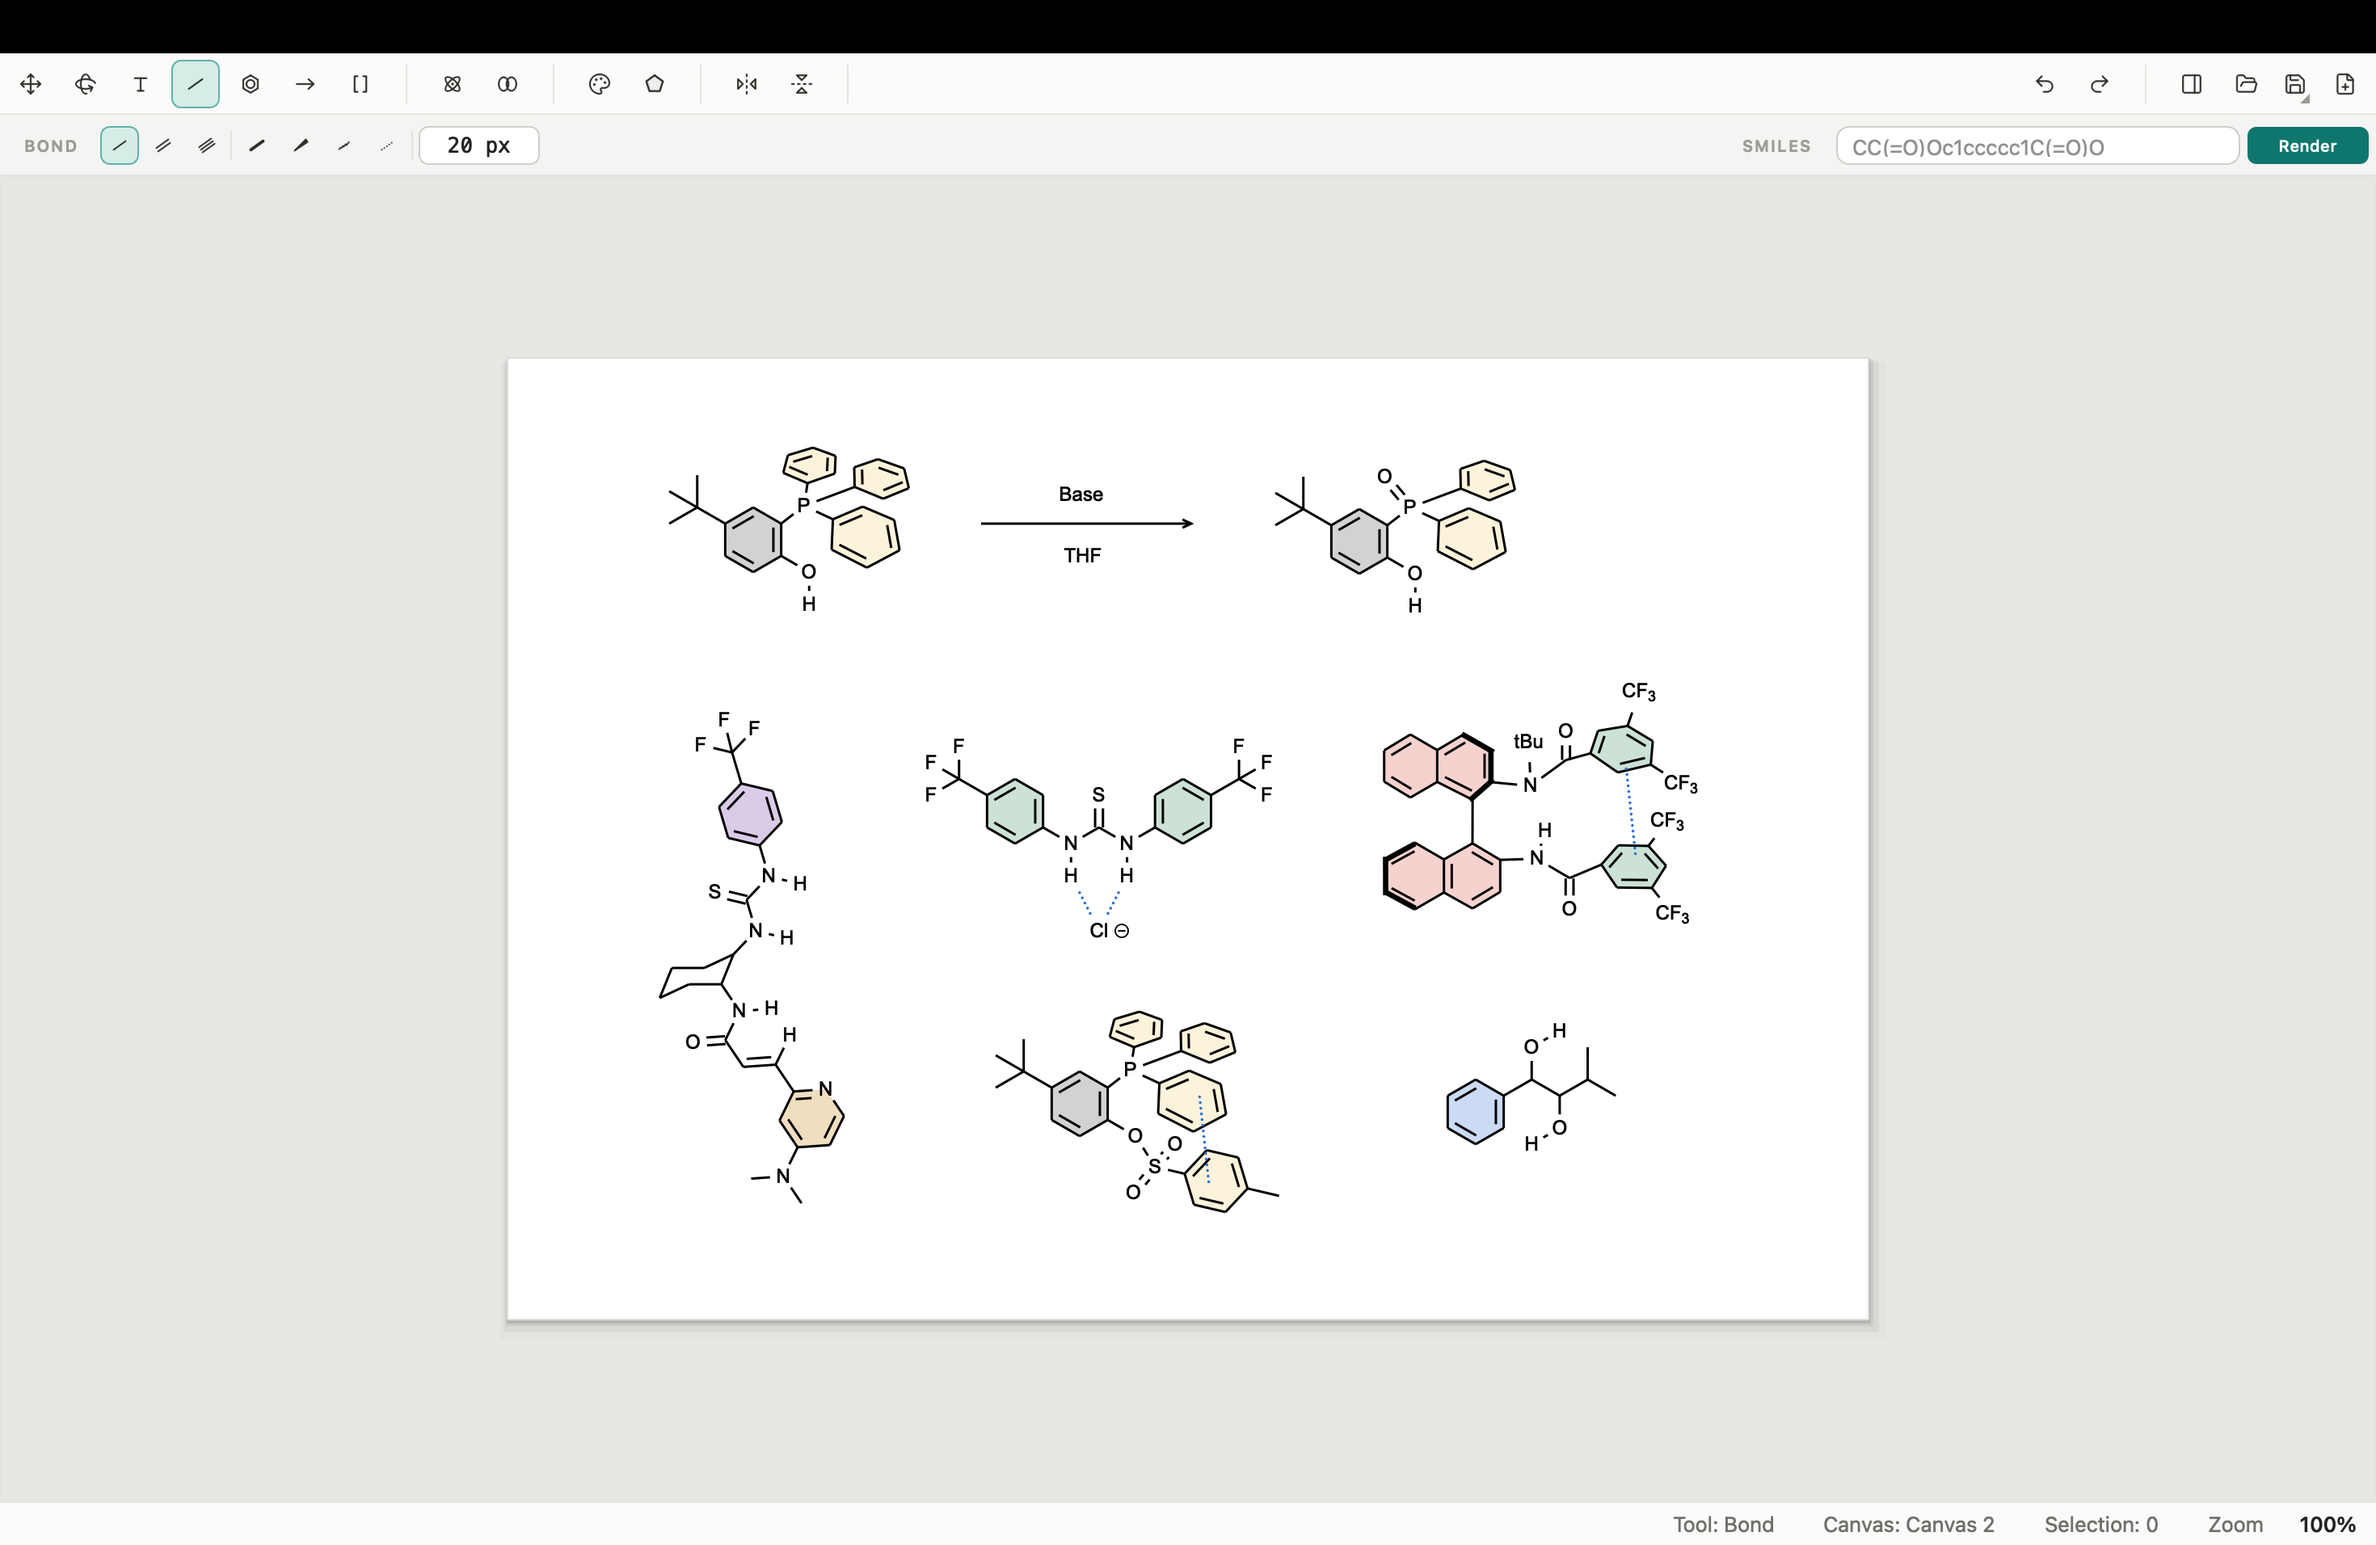
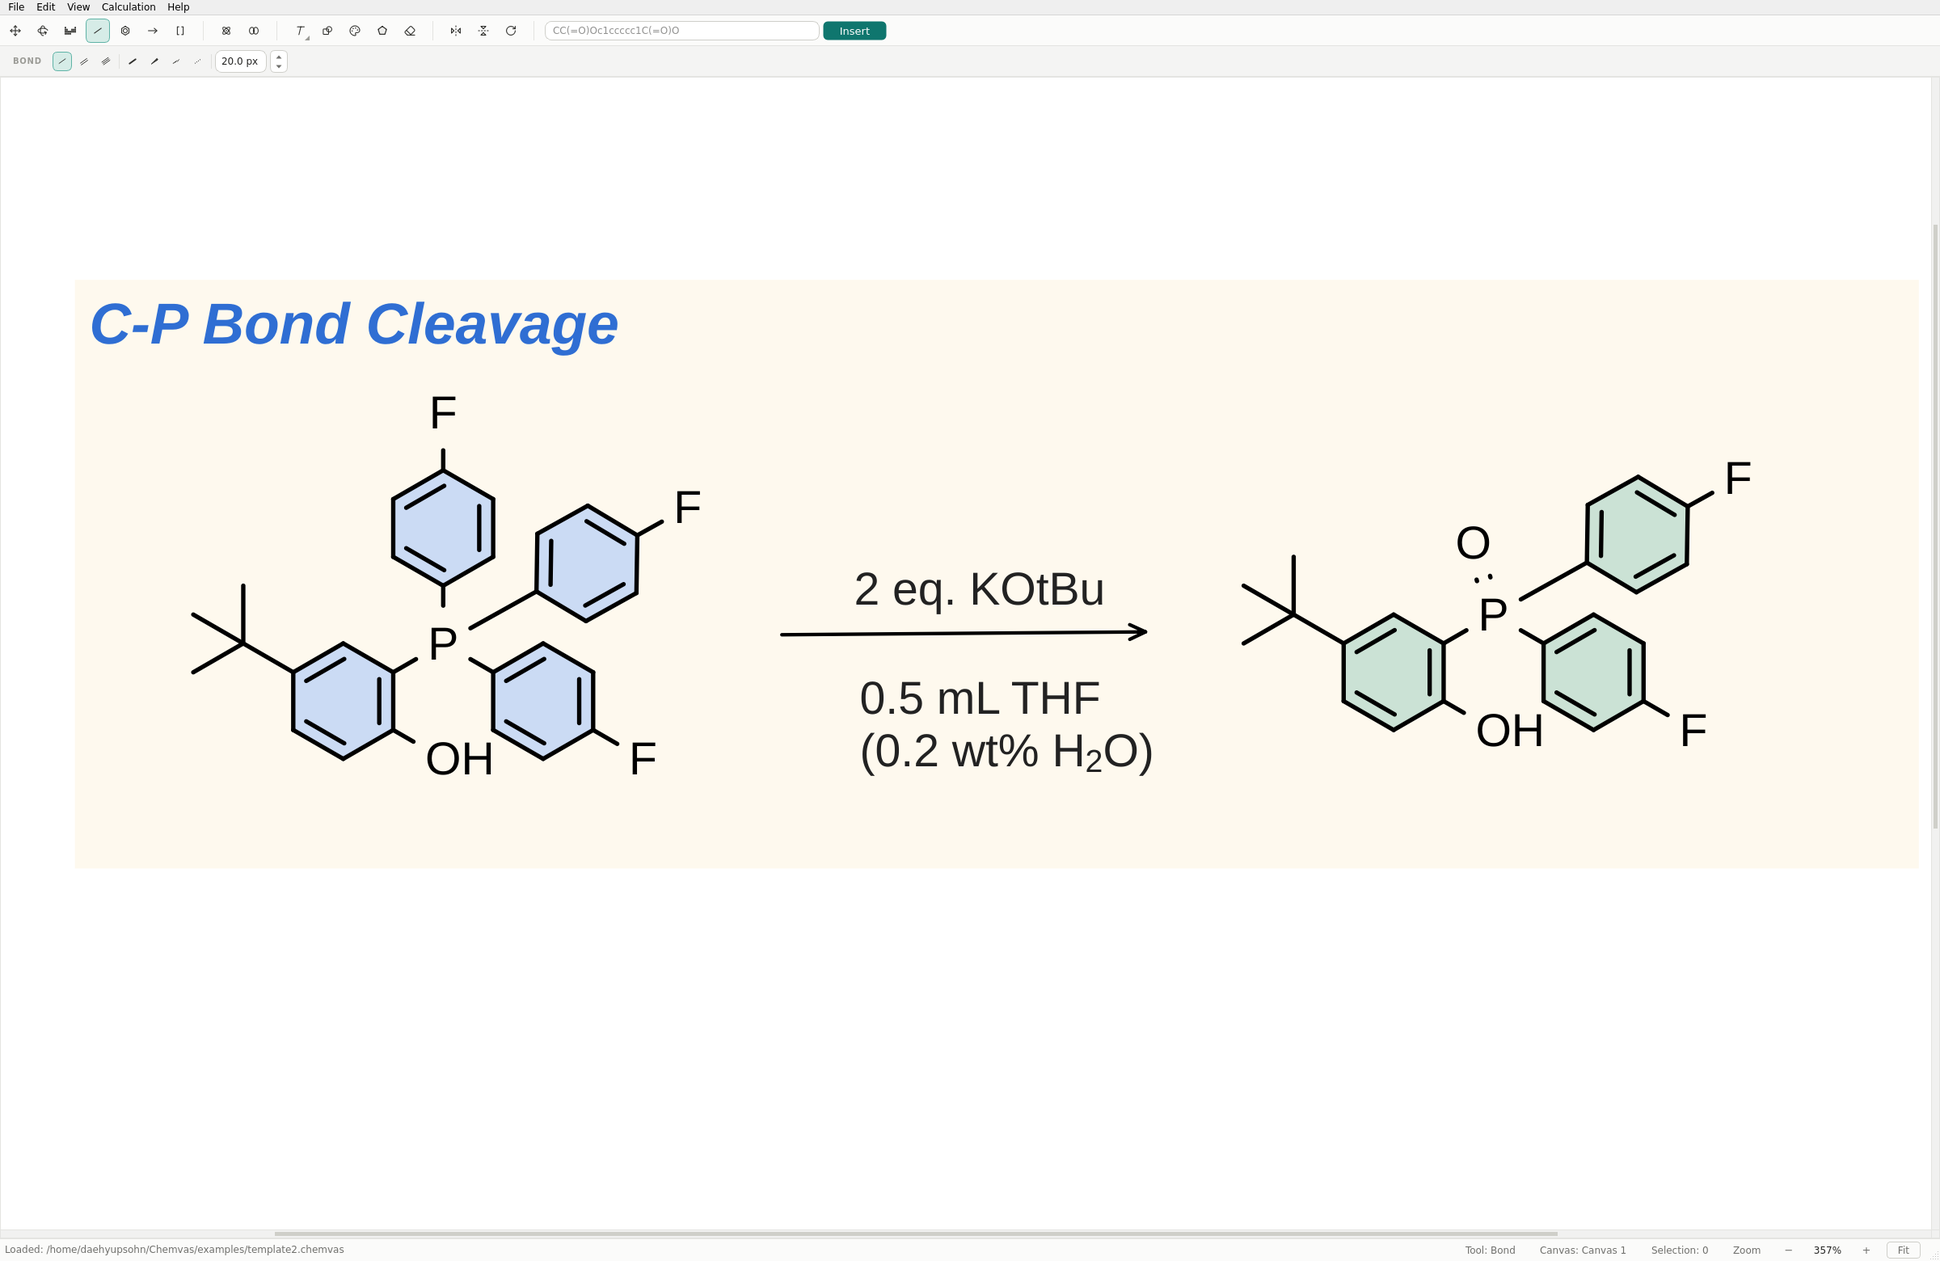
Feature template2 as the README example (#123)
Swapped the README example document from template1 to template2 (the C-P
bond cleavage scheme) and regenerated the hero screenshot with template2
loaded in the app. Fixed the title typo in examples/template2.chemvas
("Cleavege" -> "Cleavage") in both the plain-text and rich-text runs of
the annotation. The examples README hero note moved to the template2 row,
and docs/REFERENCE.md now points at the examples index instead of one
hard-coded sample.

diff --git a/examples/README.md b/examples/README.md
@@ -4,5 +4,5 @@ Sample `.chemvas` documents. Open one in Chemvas via **File ▸ Open**.
 
 | File | Description |
 | --- | --- |
-| `template1.chemvas` | A showcase document — a Base/THF reaction scheme plus several organocatalyst structures (thioureas, a bis-CF₃ catalyst, a binaphthyl bis-amide, a phosphine sulfonate, and more). This is the drawing shown in the README hero image. |
-| `template2.chemvas` | A C–P bond cleavage reaction scheme (KOtBu / THF conditions) over a reaction arrow, with annotation text and a fluorinated diarylphosphine substrate. |
+| `template1.chemvas` | A showcase document — a Base/THF reaction scheme plus several organocatalyst structures (thioureas, a bis-CF₃ catalyst, a binaphthyl bis-amide, a phosphine sulfonate, and more). |
+| `template2.chemvas` | A C–P bond cleavage reaction scheme (KOtBu / THF conditions) over a reaction arrow, with annotation text and a fluorinated diarylphosphine substrate. This is the drawing shown in the README hero image. |

diff --git a/README.md b/README.md
@@ -15,7 +15,7 @@ Chemvas is a lightweight PyQt6 app for **drawing 2D chemical structures and
 reaction schemes** — ACS 1996 defaults, ChemDraw-compatible shortcuts, and
 publication-ready figure export. Draw fast, export exactly.
 
-![Chemvas — a Base/THF reaction scheme and several organocatalyst structures drawn on the canvas](docs/images/demo.png)
+![Chemvas — a C–P bond cleavage reaction scheme (KOtBu / THF) drawn on the canvas](docs/images/demo.png)
 
 ## Statement of need
 
@@ -36,7 +36,7 @@ chemvas
 
 Pick a tool from the toolbar and click/drag on the canvas. Type a SMILES string
 and press **Insert** to preview and place it *(RDKit)*. Open
-[examples/template1.chemvas](examples/template1.chemvas) via **File ▸ Open** to
+[examples/template2.chemvas](examples/template2.chemvas) via **File ▸ Open** to
 explore the document shown above.
 
 ## What it does

diff --git a/docs/REFERENCE.md b/docs/REFERENCE.md
@@ -19,9 +19,8 @@ SMILES string in the top input and press **Insert** to enter placement mode: mov
 the mouse to preview, click to insert, `Esc` to cancel. Templates work the same
 preview-and-click way.
 
-Open [`examples/template1.chemvas`](../examples/template1.chemvas) via
-**File ▸ Open** to explore a full document — a reaction scheme plus several
-organocatalyst structures.
+Open a sample document from [`examples/`](../examples/) via **File ▸ Open** —
+the [examples README](../examples/README.md) describes what each one contains.
 
 ## Drawing features
 

diff --git a/CHANGELOG.md b/CHANGELOG.md
@@ -8,6 +8,9 @@ and this project adheres to [Semantic Versioning](https://semver.org/spec/v2.0.0
 ## [Unreleased]
 
 ### Changed
+- The README hero image and example now show `examples/template2.chemvas`
+  (the C–P bond cleavage scheme); fixed a title typo in that document
+  ("Cleavege" → "Cleavage").
 - Restructured `README.md` / `README.ko.md` into a short landing page (identity,
   statement of need, quickstart, capability table, docs index). The detailed
   user documentation moved to `docs/REFERENCE.md` and the headless/agent
